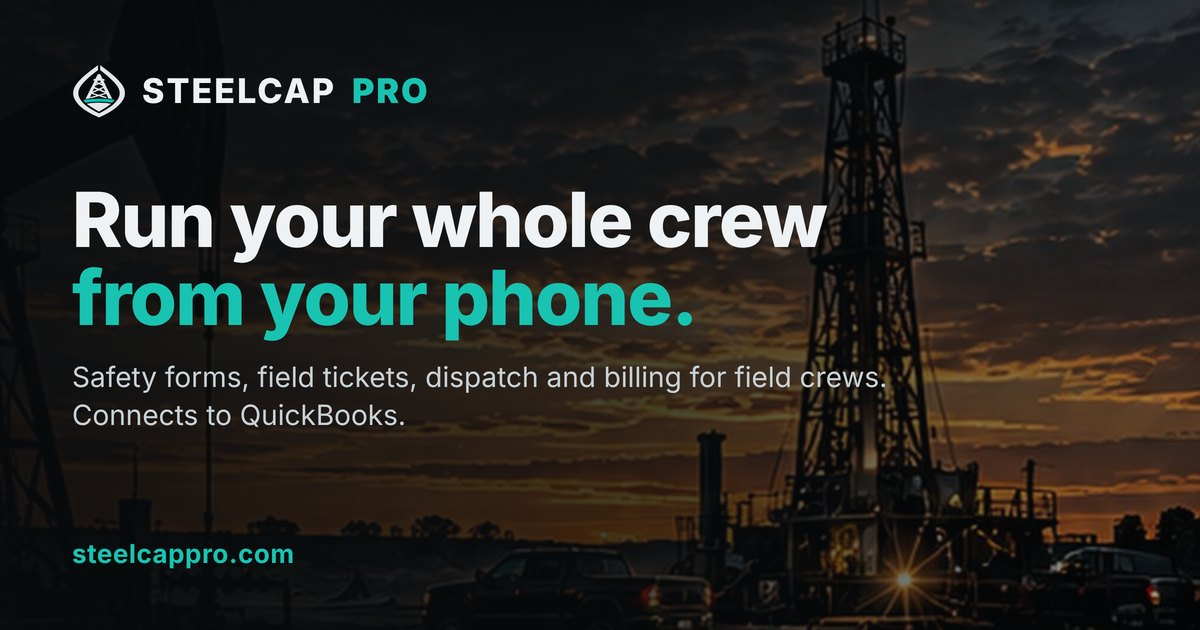
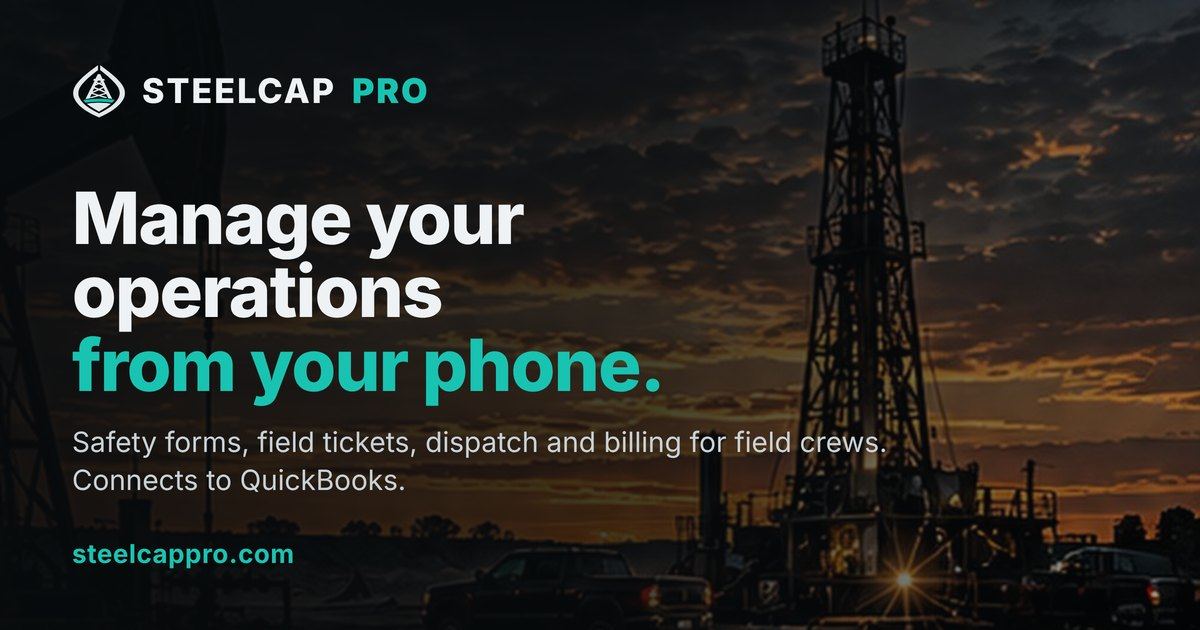
Headline: Manage your operations from your phone
Claude-Session: https://claude.ai/code/session_01JeKYnrQFhNuBXuPFUhsX7k

Changed region(s): [[0.0617, 0.3016, 0.74, 0.7841]]

diff --git a/index.html b/index.html
@@ -6,7 +6,7 @@
 <title>Steelcap Pro</title>
 <meta property="og:type" content="website">
 <meta property="og:site_name" content="Steelcap Pro">
-<meta property="og:title" content="Steelcap Pro - Run your whole crew from your phone">
+<meta property="og:title" content="Steelcap Pro - Manage your operations from your phone">
 <meta property="og:description" content="Safety forms, field tickets, dispatch and billing for field crews. Connects to QuickBooks.">
 <meta property="og:url" content="https://steelcappro.com/">
 <meta property="og:image" content="https://steelcappro.com/og.jpg">
@@ -169,7 +169,7 @@ html,body{overflow-x:hidden}
   <div class="bg" role="img" aria-label="Drilling rig and pickup at dawn"></div>
   <div class="wrap">
     <div>
-      <h1>Run your whole crew from your phone.</h1>
+      <h1>Manage your operations from your phone.</h1>
       <p class="qbline"><span class="qbchip" aria-hidden="true">qb</span>Connects to your QuickBooks account. Approved tickets become invoices and payroll hours, receipts become expenses.</p>
       <p class="lede">Safety forms, field tickets, dispatch and truck billing in one app built for field crews of 1 to 20: oilfield, pipeline, construction and the trades. Dummy-proof for the guys. You see everything from anywhere.</p>
       <div class="cta-row">

diff --git a/site-src/landing.html b/site-src/landing.html
@@ -6,7 +6,7 @@
 <title>Steelcap Pro</title>
 <meta property="og:type" content="website">
 <meta property="og:site_name" content="Steelcap Pro">
-<meta property="og:title" content="Steelcap Pro - Run your whole crew from your phone">
+<meta property="og:title" content="Steelcap Pro - Manage your operations from your phone">
 <meta property="og:description" content="Safety forms, field tickets, dispatch and billing for field crews. Connects to QuickBooks.">
 <meta property="og:url" content="https://steelcappro.com/">
 <meta property="og:image" content="https://steelcappro.com/og.jpg">
@@ -169,7 +169,7 @@ html,body{overflow-x:hidden}
   <div class="bg" role="img" aria-label="Drilling rig and pickup at dawn"></div>
   <div class="wrap">
     <div>
-      <h1>Run your whole crew from your phone.</h1>
+      <h1>Manage your operations from your phone.</h1>
       <p class="qbline"><span class="qbchip" aria-hidden="true">qb</span>Connects to your QuickBooks account. Approved tickets become invoices and payroll hours, receipts become expenses.</p>
       <p class="lede">Safety forms, field tickets, dispatch and truck billing in one app built for field crews of 1 to 20: oilfield, pipeline, construction and the trades. Dummy-proof for the guys. You see everything from anywhere.</p>
       <div class="cta-row">

diff --git a/app/sw.js b/app/sw.js
@@ -1,5 +1,5 @@
 // Steelcap Pro service worker: installable app, network-first so updates show right away, plus phone pings.
-const CACHE = "steelcap-v12";
+const CACHE = "steelcap-v13";
 const SHELL = ["./", "index.html", "styles.css", "js/core.js", "js/ui.js", "js/outbox.js", "js/main.js", "js/views.js", "js/admin.js", "js/chat.js", "js/ai.js", "js/push.js", "js/export.js", "manifest.webmanifest", "icon-192.png", "favicon.png", "mark.png", "hero.jpg"];
 self.addEventListener("install", e => { e.waitUntil(caches.open(CACHE).then(c => c.addAll(SHELL)).then(() => self.skipWaiting())); });
 self.addEventListener("activate", e => { e.waitUntil(caches.keys().then(ks => Promise.all(ks.filter(k => k !== CACHE).map(k => caches.delete(k)))).then(() => self.clients.claim())); });

diff --git a/app/index.html b/app/index.html
@@ -12,7 +12,7 @@
 <title>Steelcap Pro</title>
 <meta property="og:type" content="website">
 <meta property="og:site_name" content="Steelcap Pro">
-<meta property="og:title" content="Steelcap Pro - Run your whole crew from your phone">
+<meta property="og:title" content="Steelcap Pro - Manage your operations from your phone">
 <meta property="og:description" content="Safety forms, field tickets, dispatch and billing for field crews. Connects to QuickBooks.">
 <meta property="og:url" content="https://steelcappro.com/app/">
 <meta property="og:image" content="https://steelcappro.com/og.jpg">

diff --git a/app/js/main.js b/app/js/main.js
@@ -41,7 +41,7 @@ function welcome() {
   applyTheme("steelcap");
   showGate(`<div class="hero" style="--hero-img:url(hero.jpg)">${BrandLockup({ mark: 58, size: 26 })}</div>
     <div class="gate-body">
-      <h1>Run your whole crew<br><span class="accent">from your phone.</span></h1>
+      <h1>Manage your operations<br><span class="accent">from your phone.</span></h1>
       <p class="lead">Safety, dispatch, tickets, expenses and the books. One app. You run the work.</p>
       <div style="margin-top:auto">
         ${PrimaryButton("Start my company", { id: "wStart" })}
